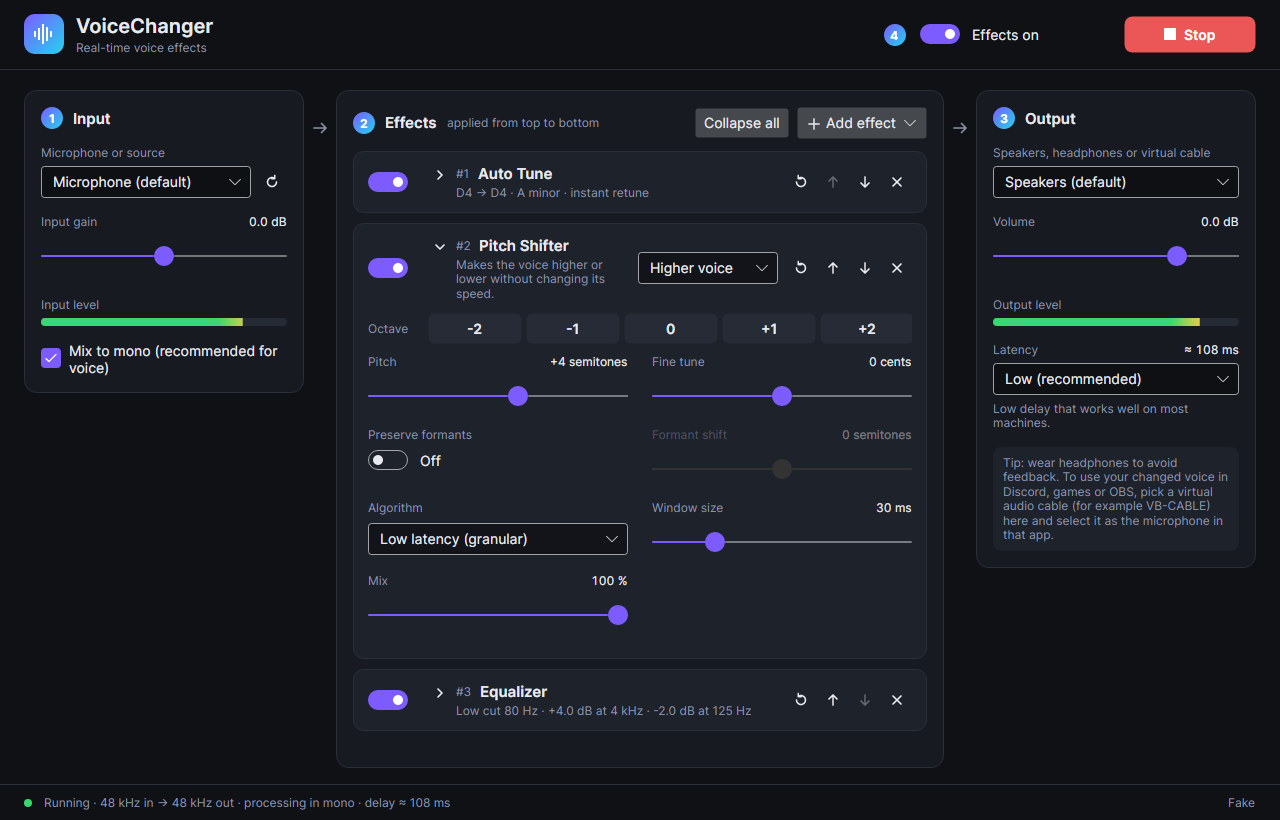
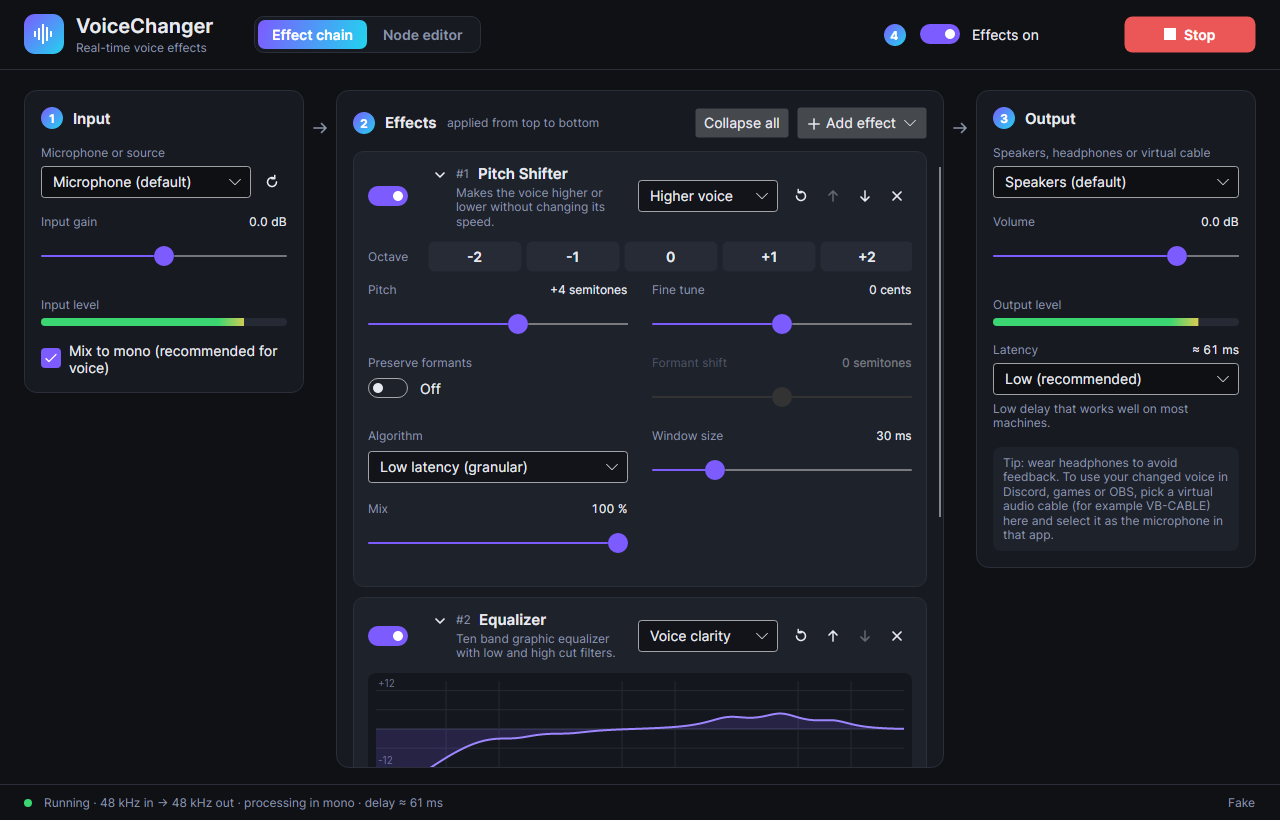
Test the pitch and auto tune fixes inside the node editor
Effect nodes show the auto tune's clickable note strip and the pitch
shifter's formant-preserving presets. The README screenshots now show
the editor switch in the header.

Claude-Session: https://claude.ai/code/session_01TgPKXxHfwwwNGyxi2ih6qo

diff --git a/tests/VoiceChanger.App.Tests/NodeEditorTests.cs b/tests/VoiceChanger.App.Tests/NodeEditorTests.cs
@@ -9,6 +9,7 @@ using Avalonia.VisualTree;
 using VoiceChanger.App.Controls;
 using VoiceChanger.App.ViewModels;
 using VoiceChanger.App.Views;
+using VoiceChanger.Core.Dsp;
 using VoiceChanger.Core.Effects;
 using VoiceChanger.Core.Graph;
 using VoiceChanger.Core.Settings;
@@ -286,6 +287,34 @@ public sealed class NodeEditorTests : IDisposable
         Render(window);
         inspector.GetVisualDescendants().OfType<Button>().Single(b => b.Name == "DeleteNodeButton").Command!.Execute(null);
         Assert.Equal(5, editor.Nodes.Count);
+
+        window.Close();
+        vm.Dispose();
+    }
+
+    [AvaloniaFact]
+    public void Effect_nodes_use_the_full_effect_editors()
+    {
+        var (window, vm, editor) = ShowNodes(new MainWindowViewModel(new FakeAudioBackend(), Store()));
+        var autoTune = Assert.IsType<EffectNodeViewModel>(
+            editor.AddNode(NodeRegistry.Default.Find(EffectNode.TypePrefix + AutoTuneEffect.Type)!));
+        Render(window);
+
+        // The inspector shows the auto tune's note strip: clicking notes picks a custom scale.
+        var inspector = window.GetVisualDescendants().OfType<NodeInspector>().Single();
+        var chips = inspector.GetVisualDescendants().OfType<Button>().Where(b => b.Classes.Contains("chip")).ToList();
+        Assert.Equal(12, chips.Count);
+        chips.Single(c => (string?)c.Content == "C#").Command!.Execute(null);
+        Dispatcher.UIThread.RunJobs();
+        Assert.Equal((int)ScaleType.Custom, ((AutoTuneEffect)((EffectNode)autoTune.Node).Effect).Scale.Value);
+        Assert.Equal("custom scale (11 notes) · 20 ms retune", autoTune.Summary);
+
+        // Presets that lower the voice keep it natural in the graph too.
+        var pitch = editor.Nodes.OfType<EffectNodeViewModel>().First(n => n.Effect is PitchShiftViewModel);
+        pitch.Effect.SelectedPreset = pitch.Effect.Presets.Single(p => p.Name == "Deep");
+        var effect = (PitchShiftEffect)((EffectNode)pitch.Node).Effect;
+        Assert.Equal(PitchShiftEffect.FormantMode, effect.EffectiveMode);
+        Assert.Equal("-7 semitones · formants -3.0 semitones", pitch.Summary);
 
         window.Close();
         vm.Dispose();
